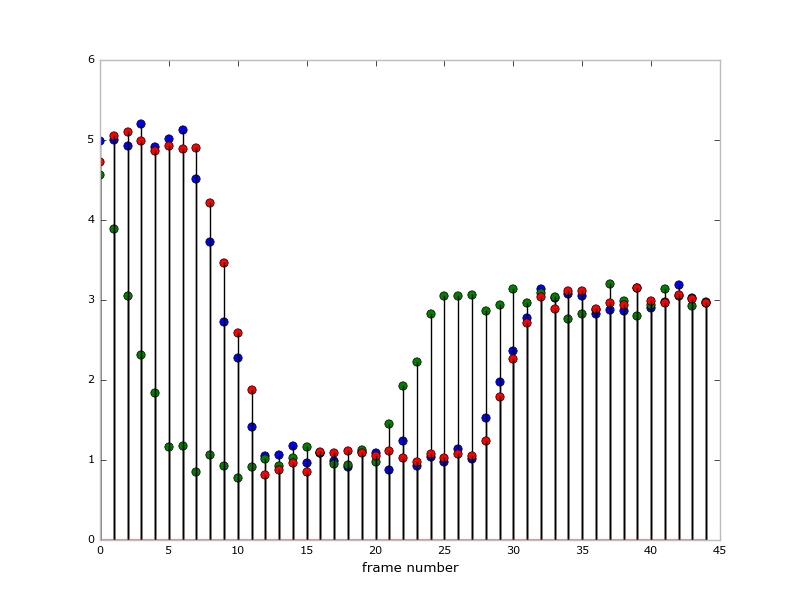
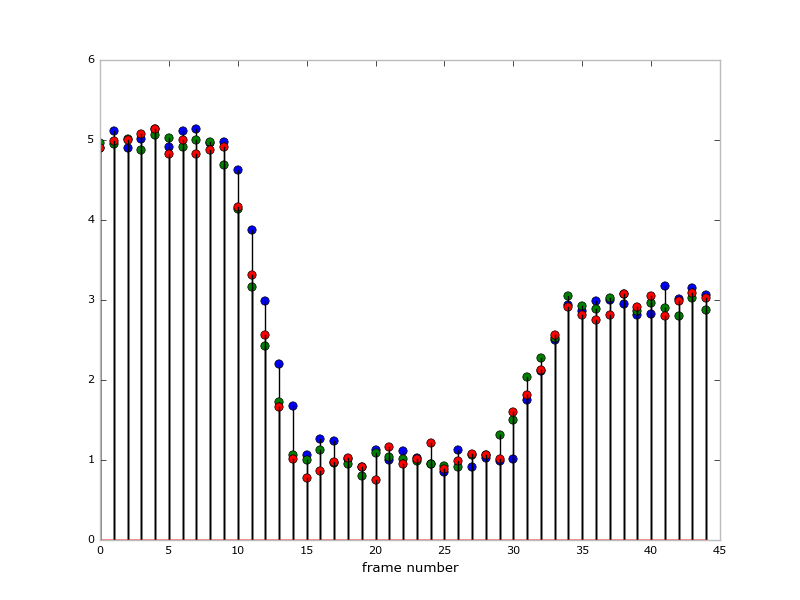
tweak randomness in plots

Changed region(s): [[0.125, 0.18, 0.9062, 0.81], [0.2188, 0.78, 0.25, 0.81]]

diff --git a/scripts/check_likelihood_sampling.py b/scripts/check_likelihood_sampling.py
@@ -14,7 +14,7 @@ theta = times, vals
 _, camera_sample = \
     make_camera_model(0.1, 0.01, make_gaussian_model(sigmasq=0.01))
 
-samples = [camera_sample(theta, npr.uniform(), 45) for _ in xrange(3)]
+samples = [camera_sample(theta, npr.uniform() * 0.1, 45) for _ in xrange(3)]
 
 colors = ['b', 'g', 'r']
 plt.figure(figsize=(8,6))
